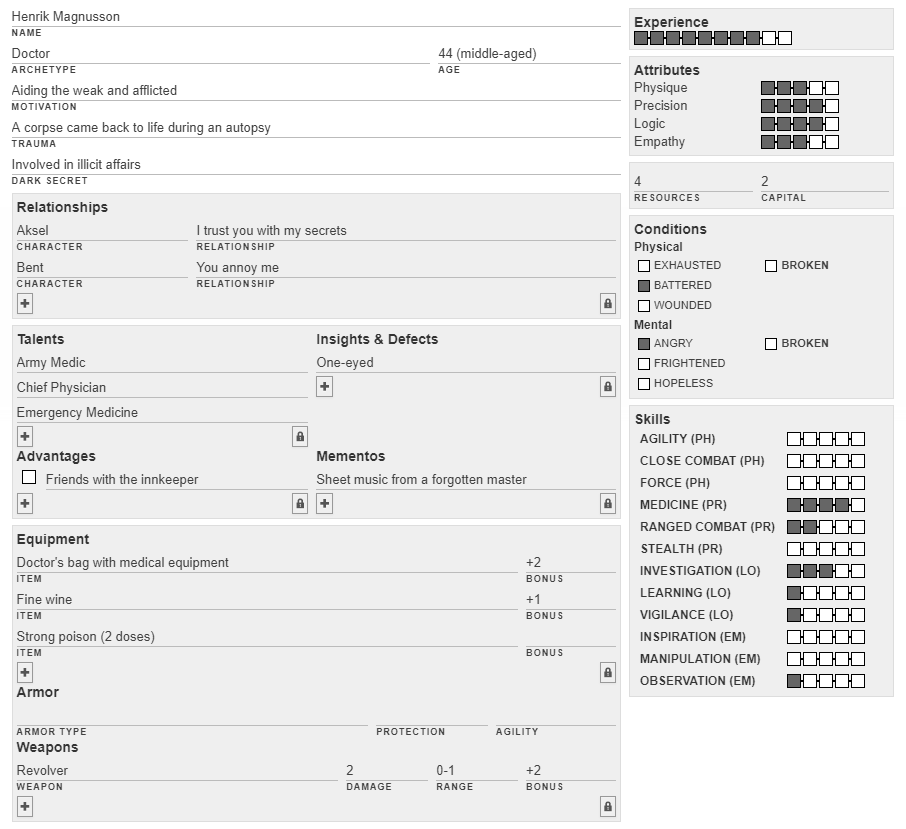
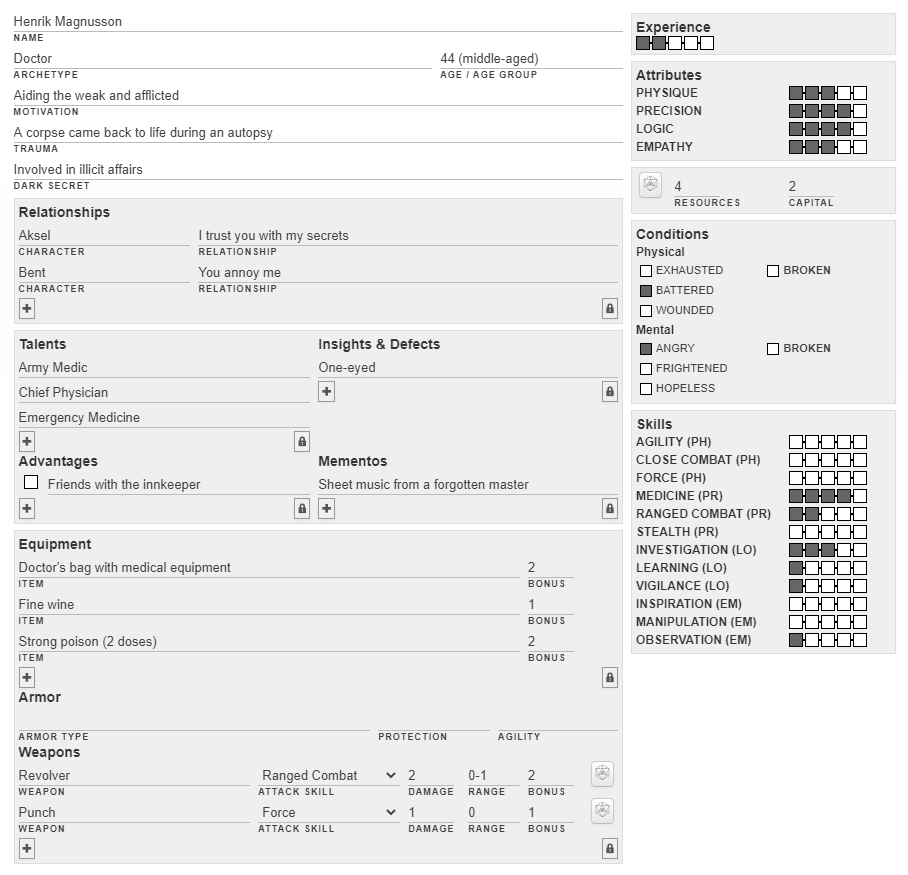
A few more small tweaks

diff --git a/vaesen.html b/vaesen.html
@@ -96,7 +96,7 @@
                                     <div class="sheet-text sheet-label sheet-title">Item</div>
                                 </div>
                                 <div class="sheet-col15">
-                                    <input type="text" name="attr_EquipmentBonus" />
+                                    <input type="number" value="0" name="attr_EquipmentBonus" />
                                     <div class="sheet-text sheet-label sheet-title">Bonus</div>
                                 </div>
                             </div>
@@ -135,7 +135,6 @@
                                     </select>
                                     <div class="sheet-text sheet-label sheet-title">Attack Skill</div>
                                 </div>
-                                
                                 <div class="sheet-col10 sheet-colspace">
                                     <input type="number" value="0" name="attr_WeaponDamage" />
                                     <div class="sheet-text sheet-label sheet-title">Damage</div>
@@ -245,11 +244,14 @@
                 </div>
                 <div class="sheet-section">
                     <div class="sheet-flex">
-                        <div class="sheet-col50 sheet-colspace">
+                        <div class="sheet-col15 sheet-colspace">
+                            <button type="roll" value="&{template:default} {{name=Resources}} {{successes=[[@{Resources}d6>6]]}}" />
+                        </div>
+                        <div class="sheet-col45 sheet-colspace">
                             <input type="number" value="0" name="attr_Resources" />
                             <div class="sheet-text sheet-label sheet-title">Resources</div>
                         </div>
-                        <div class="sheet-col50 ">
+                        <div class="sheet-col40 ">
                             <input type="number" value="0" name="attr_Capital" />
                             <div class="sheet-text sheet-label sheet-title">Capital</div>
                         </div>
